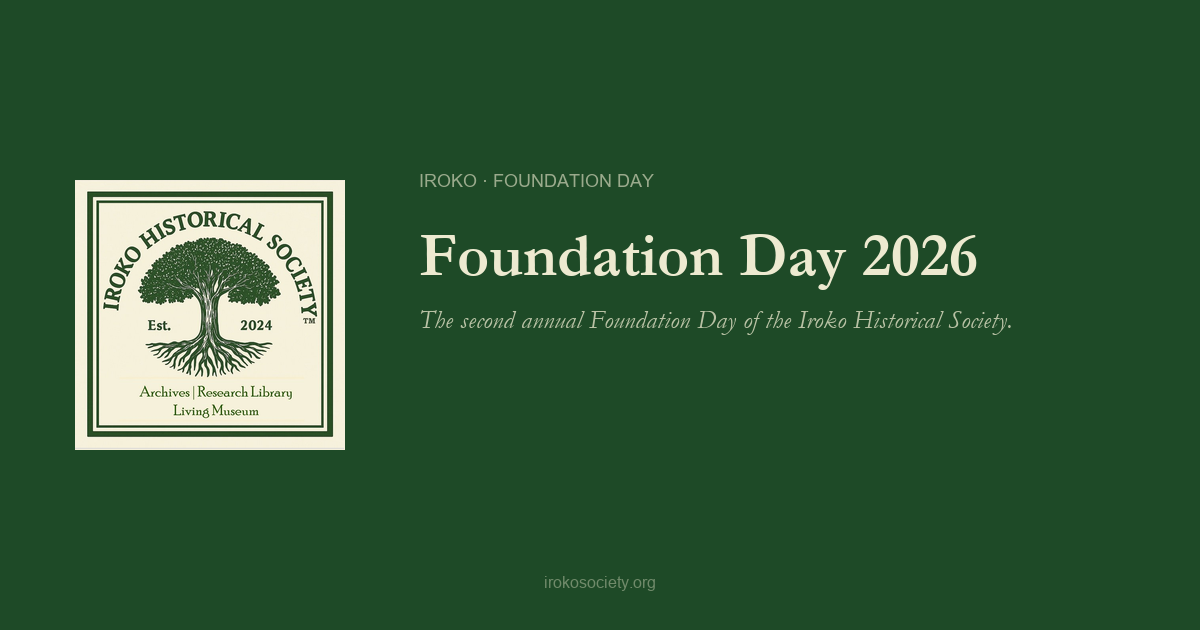
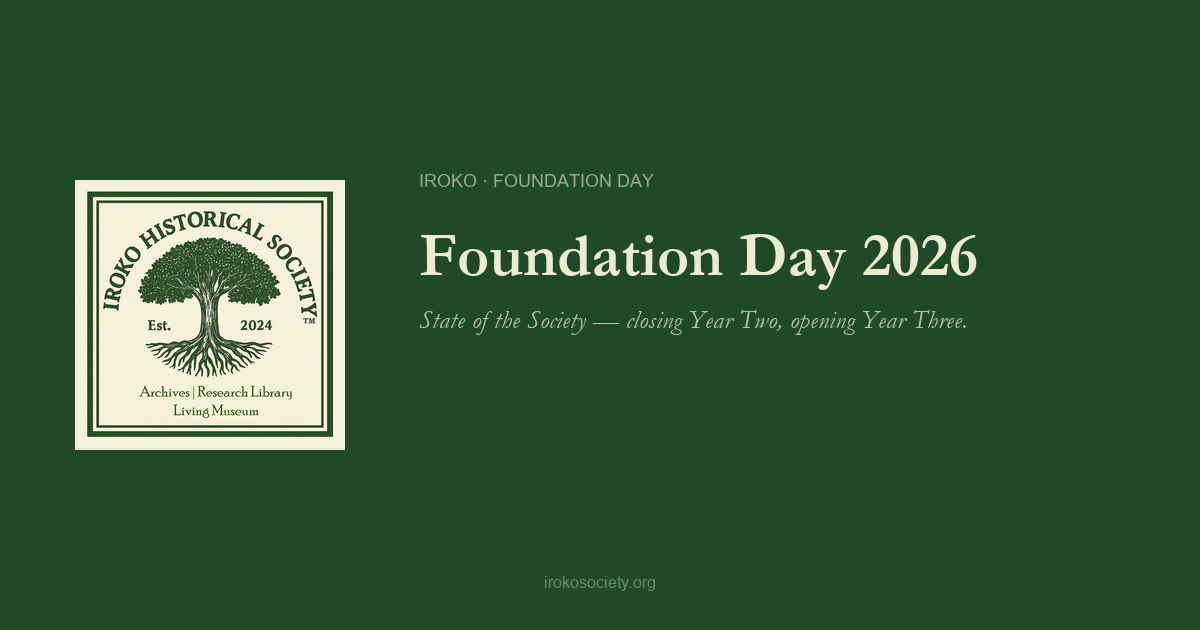
Updated OG Cards

Changed region(s): [[0.3392, 0.4825, 0.8325, 0.5429]]

diff --git a/foundation-day/2027.html b/foundation-day/2027.html
@@ -10,14 +10,14 @@
   <meta property="og:title"       content="Foundation Day 2027 — Planned — Iroko Historical Society">
   <meta property="og:description" content="Foundation Day 2027 is planned but not yet detailed. See the State of the Society, 2026 address for the reasoning behind the deferral.">
   <meta property="og:url"         content="https://irokosociety.org/foundation-day/2027.html">
-  <meta property="og:image"       content="https://irokosociety.org/assets/og-foundation-day-2026.png">
+  <meta property="og:image"       content="https://irokosociety.org/assets/og-foundation-day-2027.png">
   <meta property="og:image:width"  content="1200">
   <meta property="og:image:height" content="630">
   <meta property="og:image:type"   content="image/png">
   <meta name="twitter:card"        content="summary_large_image">
   <meta name="twitter:title"       content="Foundation Day 2027 — Planned — Iroko Historical Society">
   <meta name="twitter:description" content="Foundation Day 2027 is planned but not yet detailed. See the State of the Society, 2026 address for the reasoning behind the deferral.">
-  <meta name="twitter:image"       content="https://irokosociety.org/assets/og-foundation-day-2026.png">  <link rel="stylesheet" href="../style.css">
+  <meta name="twitter:image"       content="https://irokosociety.org/assets/og-foundation-day-2027.png">  <link rel="stylesheet" href="../style.css">
   <link rel="icon" type="image/svg+xml" href="../assets/IHS-Logo.svg">
   <style>
     .top-bar{background:var(--green-deep);border-bottom:1px solid var(--green-border);color:rgba(237,234,208,.6);font-family:var(--font-sans);font-size:.7rem;letter-spacing:.1em;text-align:center;padding:.35rem 1rem}

diff --git a/generate-og.py b/generate-og.py
@@ -622,13 +622,27 @@ PAGES = [
         slug       = "og-foundation-day-2026",
         label      = "IROKO · FOUNDATION DAY",
         title      = "Foundation Day 2026",
-        subtitle   = "The second annual Foundation Day of the Iroko Historical Society.",
-        og_title   = "Foundation Day 2026 — Iroko Historical Society",
+        subtitle   = "State of the Society — closing Year Two, opening Year Three.",
+        og_title   = "Foundation Day 2026 — State of the Society — Iroko Historical Society",
         og_description = (
-            "The second annual Foundation Day of the Iroko Historical Society — "
-            "a milestone in the ongoing work of Afro-Atlantic archival preservation."
+            "The permanent record closing Year Two and opening Year Three of the "
+            "Iroko Historical Society, including the founder's State of the Society address."
         ),
         og_url     = f"{BASE_URL}/foundation-day/2026.html",
+    ),
+    # ── foundation day 2027 (planned) ─────────────────────────────────────────
+    dict(
+        file       = "foundation-day/2027.html",
+        slug       = "og-foundation-day-2027",
+        label      = "IROKO · FOUNDATION DAY",
+        title      = "Foundation Day 2027",
+        subtitle   = "Planned — the public convening deferred from Year Two.",
+        og_title   = "Foundation Day 2027 — Planned — Iroko Historical Society",
+        og_description = (
+            "Foundation Day 2027 is planned but not yet detailed. See the State of the "
+            "Society, 2026 address for the reasoning behind the deferral."
+        ),
+        og_url     = f"{BASE_URL}/foundation-day/2027.html",
     ),
     # ── commentaries ──────────────────────────────────────────────────────────
     dict(